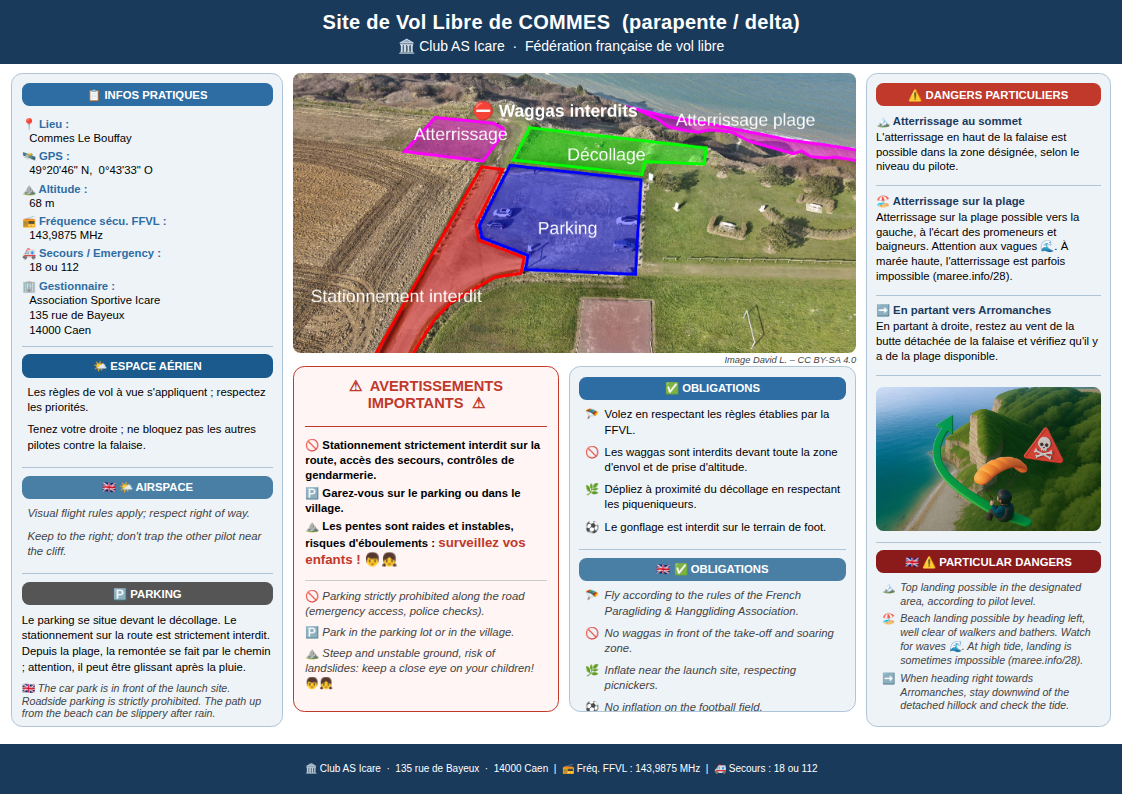
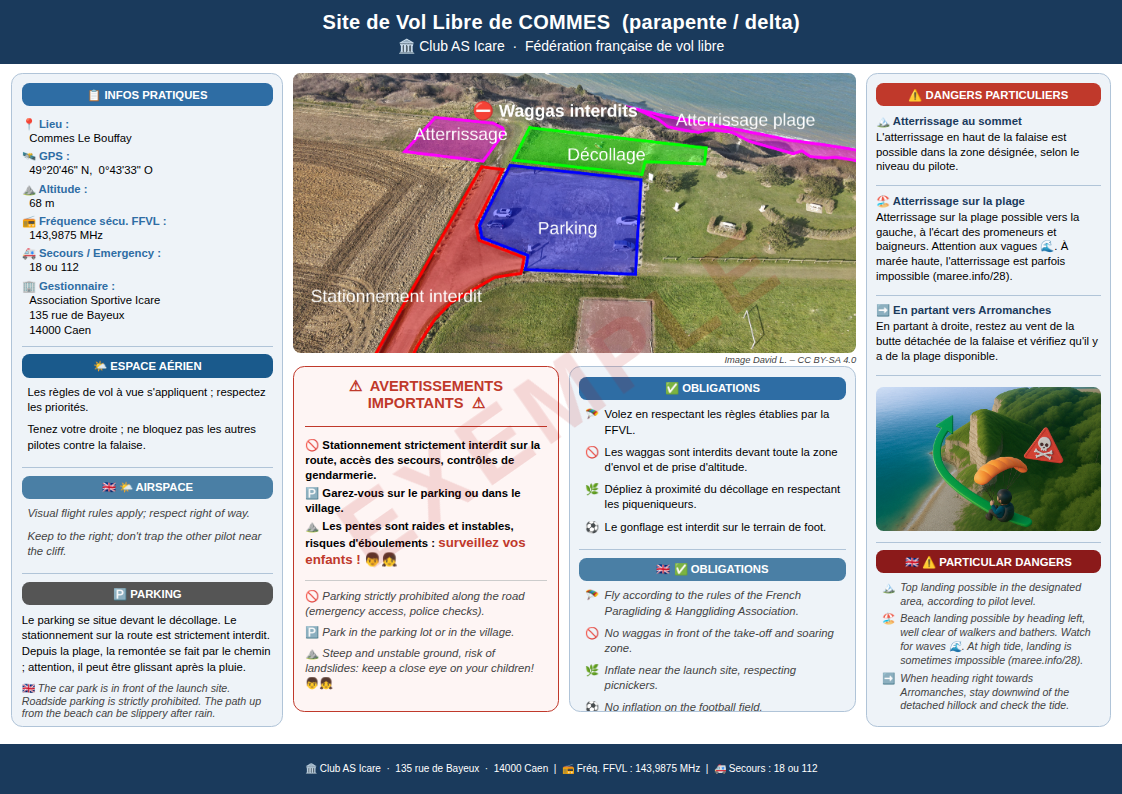
Add EXEMPLE watermark

Changed region(s): [[0.2807, 0.4232, 0.5615, 0.6952]]

diff --git a/panneau_commes.html b/panneau_commes.html
@@ -403,10 +403,26 @@
       font-style: normal;
       flex-shrink: 0;
     }
+    /* ── Filigrane ──────────────────────────────────────────────── */
+    .watermark {
+      position: fixed;
+      top: 50%;
+      left: 50%;
+      transform: translate(-50%, -50%) rotate(-35deg);
+      font-size: 72pt;
+      font-weight: bold;
+      color: rgba(180, 0, 0, 0.12);
+      white-space: nowrap;
+      pointer-events: none;
+      z-index: 9999;
+      letter-spacing: 8px;
+    }
+
   </style>
 </head>
 
 <body>
+  <div class="watermark">EXEMPLE</div>
   <div class="page">
 
     <!-- ══ HEADER ══════════════════════════════════════════════════════ -->
